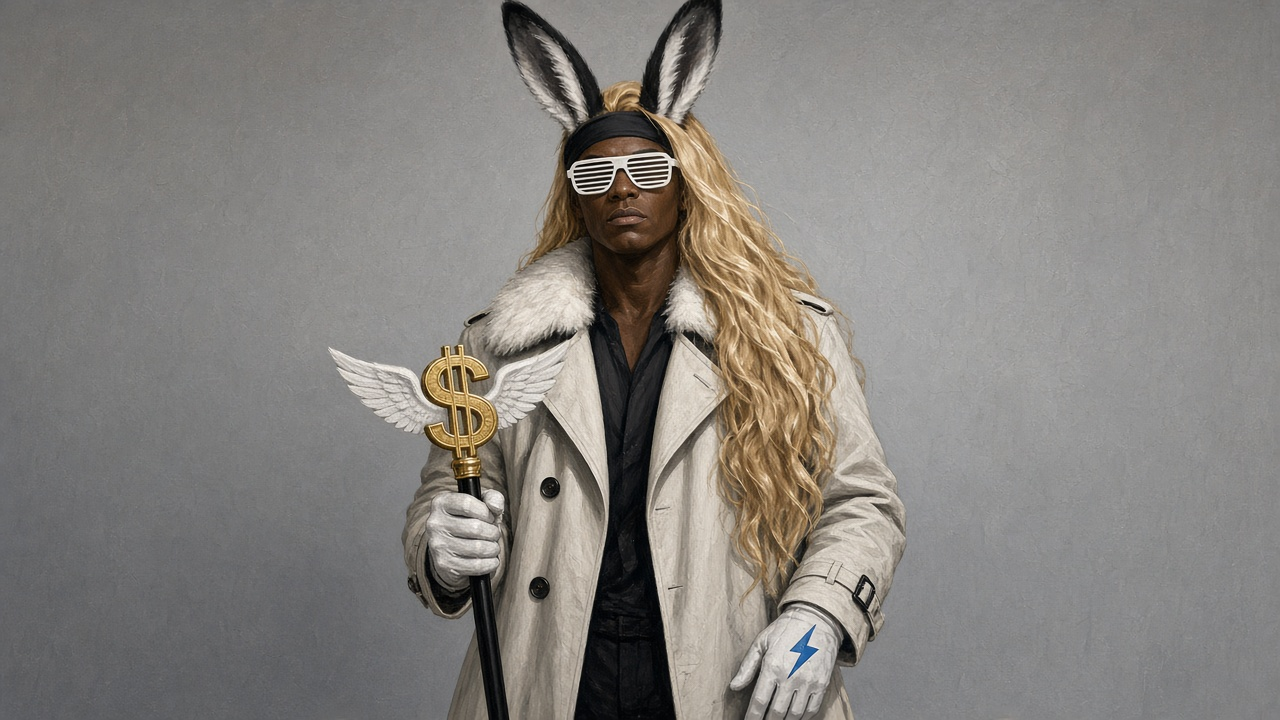
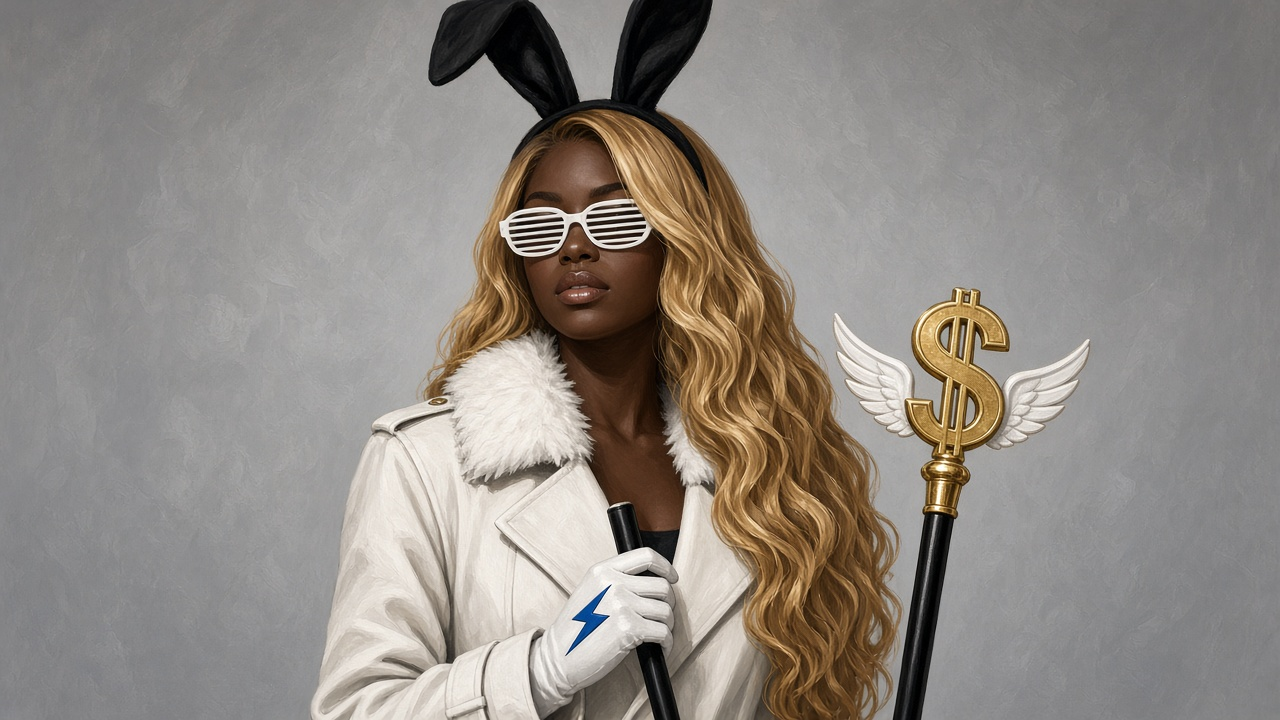
temp preview: NumbahWan LP v5 RE-LOOP (woman + frames + Kerning) WIP

diff --git a/index.html b/index.html
@@ -3,142 +3,73 @@
 <head>
 <meta charset="utf-8" />
 <meta name="viewport" content="width=device-width, initial-scale=1, viewport-fit=cover" />
-<title>NumbahWan · 總書記廳</title>
+<title>NumbahWan · 總書記廳 → Kerning</title>
 <meta name="theme-color" content="#1a120c" />
 <style>
-:root{
-  --ink:#1a120c; --cream:#f4e8d4; --red:#c41e1e; --gold:#c9a227;
-  --font:system-ui,"Noto Sans TC","PingFang TC","Microsoft JhengHei",sans-serif;
-}
+:root{--ink:#1a120c;--cream:#f4e8d4;--red:#c41e1e;--gold:#c9a227;--font:system-ui,"Noto Sans TC","PingFang TC",sans-serif}
 *{box-sizing:border-box}
-html{scroll-behavior:smooth}
 body{margin:0;font-family:var(--font);background:var(--ink);color:var(--cream);line-height:1.35}
-.stamp{
-  position:fixed;z-index:80;top:.4rem;right:.4rem;
-  background:var(--cream);color:var(--red);border:2px solid var(--red);
-  font-weight:900;font-size:.58rem;line-height:1.1;padding:.28rem .4rem;
-  transform:rotate(3deg);text-align:center;
-}
-/* ——— scrub track ——— */
-.scrub{
-  height:280vh;
-  position:relative;
-}
-.scrub-sticky{
-  position:sticky;top:0;height:100vh;height:100dvh;
-  overflow:hidden;
-  display:grid;grid-template-rows:auto 1fr auto;
-  padding:.55rem .55rem .7rem;
-  background:
-    linear-gradient(180deg, rgba(26,18,12,.55), rgba(26,18,12,.82)),
-    url("assets/v5/hall-base.png") center/cover no-repeat;
-}
-.banner{
-  justify-self:center;background:var(--red);color:var(--gold);
-  font-weight:900;font-size:clamp(.68rem,3.2vw,.95rem);
-  padding:.4rem .7rem;border:2px solid var(--gold);text-align:center;max-width:100%;
-}
-.stage{display:grid;align-content:center;gap:.45rem;min-height:0}
-.n-seal{
-  justify-self:center;width:clamp(3.2rem,18vw,5.5rem);aspect-ratio:1;
-  border-radius:50%;background:radial-gradient(circle at 40% 35%,#ff8a3d,#e85d04 55%,#9a3412);
-  border:3px solid var(--gold);box-shadow:0 0 0 2px #5a4208;
-  display:grid;place-items:center;font-weight:900;font-size:clamp(1.4rem,8vw,2.4rem);color:#fff8e7;
-}
-.triad{
-  display:grid;grid-template-columns:1fr 1fr;gap:.4rem;width:100%;max-width:42rem;margin:0 auto;
-}
-.triad figure{
-  margin:0;background:#0c0805;
-  border:3px solid var(--gold);box-shadow:0 0 0 2px #5a4208;
-  display:flex;flex-direction:column;min-width:0;
-}
-.triad img{
-  width:100%;height:auto;display:block; /* no letterbox voids */
-  vertical-align:middle;
-}
-.triad figcaption{
-  padding:.32rem .35rem;font-size:clamp(.58rem,2.6vw,.78rem);font-weight:900;
-  background:rgba(0,0,0,.78);color:var(--gold);text-align:center;
-}
-.footline{font-size:clamp(.72rem,3.2vw,.9rem);font-weight:800;text-align:center;opacity:.95}
-.cta{
-  display:inline-block;margin:.35rem auto 0;background:var(--red);color:var(--cream);
-  text-decoration:none;font-weight:900;padding:.55rem .85rem;border:2px solid var(--gold);
-}
-.progress{
-  position:absolute;left:0;bottom:0;height:3px;background:var(--gold);
-  width:0;animation:scrub-w linear;animation-timeline:scroll();animation-range:0% 100%;
-}
-@keyframes scrub-w{from{width:0}to{width:100%}}
-/* scrub phases via opacity on sticky children */
-.phase{opacity:.35;transform:translateY(8px);transition:opacity .2s linear}
-@supports (animation-timeline: scroll()){
-  .phase-1{animation:in1 linear both;animation-timeline:scroll();animation-range:0% 28%}
-  .phase-2{animation:in2 linear both;animation-timeline:scroll();animation-range:18% 62%}
-  .phase-3{animation:in3 linear both;animation-timeline:scroll();animation-range:52% 100%}
-  @keyframes in1{0%{opacity:.25}40%,100%{opacity:1}}
-  @keyframes in2{0%{opacity:.2}35%,100%{opacity:1}}
-  @keyframes in3{0%{opacity:.15}40%,100%{opacity:1}}
-}
-@supports not (animation-timeline: scroll()){
-  .phase{opacity:1;transform:none}
+.stamp{position:fixed;z-index:90;top:.4rem;right:.4rem;background:var(--cream);color:var(--red);border:2px solid var(--red);font-weight:900;font-size:.55rem;line-height:1.1;padding:.26rem .38rem;transform:rotate(3deg);text-align:center}
+.hero{min-height:100vh;min-height:100dvh;display:flex;flex-direction:column;justify-content:flex-end;position:relative;
+  background:#0c0805 url("assets/v5/hall-hero.png") center 28%/cover no-repeat}
+.hero::after{content:"";position:absolute;inset:0;background:linear-gradient(180deg,transparent 40%,rgba(26,18,12,.88));pointer-events:none}
+.hero-inner{position:relative;z-index:1;padding:.7rem .7rem 1.1rem;max-width:42rem;width:100%;margin:0 auto}
+.banner{display:inline-block;background:var(--red);color:var(--gold);font-weight:900;font-size:clamp(.65rem,3vw,.9rem);padding:.35rem .65rem;border:2px solid var(--gold);margin-bottom:.45rem}
+.hero h1{margin:0 0 .25rem;font-size:clamp(1.15rem,5vw,1.75rem);font-weight:900}
+.hero p{margin:0 0 .55rem;font-size:clamp(.78rem,3.2vw,.92rem);opacity:.95}
+.cta{display:inline-block;background:var(--red);color:var(--cream);text-decoration:none;font-weight:900;padding:.5rem .8rem;border:2px solid var(--gold)}
+/* Kerning scrub */
+.scrub-label{padding:.85rem .7rem .35rem;font-weight:900;color:var(--gold);font-size:.85rem;text-align:center}
+.scrub{height:220vh;position:relative}
+.scrub-sticky{position:sticky;top:0;height:100vh;height:100dvh;overflow:hidden}
+.scrub-sticky img{position:absolute;inset:0;width:100%;height:100%;object-fit:cover;opacity:0}
+.scrub-sticky img.k1{opacity:1;animation:k1 linear both;animation-timeline:scroll();animation-range:0% 55%}
+.scrub-sticky img.k2{animation:k2 linear both;animation-timeline:scroll();animation-range:35% 100%}
+@keyframes k1{0%,55%{opacity:1}80%,100%{opacity:0}}
+@keyframes k2{0%{opacity:0}40%,100%{opacity:1}}
+@supports not (animation-timeline:scroll()){
+  .scrub{height:auto}
+  .scrub-sticky{position:relative;height:auto;display:grid;gap:.4rem;padding:.5rem}
+  .scrub-sticky img{position:relative;inset:auto;height:auto;opacity:1;max-height:70vh}
 }
 @media (prefers-reduced-motion:reduce){
   .scrub{height:auto}
-  .scrub-sticky{position:relative;height:auto;min-height:100vh}
-  .phase{opacity:1;transform:none;animation:none}
-  .progress{display:none}
+  .scrub-sticky{position:relative;height:auto;display:grid;gap:.4rem;padding:.5rem}
+  .scrub-sticky img{position:relative;height:auto;opacity:1;animation:none;max-height:70vh}
 }
-.panel{max-width:42rem;margin:0 auto;padding:1.1rem .7rem 2rem}
-.panel h2{margin:0 0 .45rem;font-size:1rem;color:var(--gold)}
-.panel p{margin:0 0 .7rem;font-size:.88rem;opacity:.92}
-.ev{display:grid;grid-template-columns:1fr;gap:.55rem}
-.ev img{width:100%;height:auto;border:1px solid #5a4208;display:block}
-footer{max-width:42rem;margin:0 auto;padding:0 .7rem 2rem;font-size:.65rem;opacity:.6}
-@media (min-width:720px){
-  .triad{gap:.65rem}
-  .scrub-sticky{padding:1rem 1.25rem}
-}
+.cap{padding:.6rem .7rem 1.2rem;text-align:center;font-size:.82rem}
+.cap strong{color:var(--gold)}
+.panel{max-width:42rem;margin:0 auto;padding:1rem .7rem 2rem}
+.panel h2{margin:0 0 .4rem;font-size:1rem;color:var(--gold)}
+.ev img{width:100%;height:auto;display:block;border:1px solid #5a4208;margin-bottom:.5rem}
+footer{padding:0 .7rem 2rem;font-size:.62rem;opacity:.55;max-width:42rem;margin:0 auto}
 </style>
 </head>
 <body>
   <div class="stamp">搞笑中央<br/>非政治宣傳</div>
 
-  <section class="scrub" aria-label="總書記廳 scrub">
-    <div class="scrub-sticky">
-      <div class="banner phase phase-1">團結緊張嚴肅活潑 · 第一屆中央大會 12月24日</div>
-      <div class="stage">
-        <div class="n-seal phase phase-1" aria-label="NumbahWan N emblem">N</div>
-        <div class="triad phase phase-2">
-          <figure>
-            <img src="assets/v5/reggina-zhuxi.png" width="768" height="1024"
-              alt="總書記 RegginA 标准像：左肩及腰金髮、帶翼美元杖、百葉窗墨鏡、白毛領" />
-            <figcaption>總書記 · RegginA</figcaption>
-          </figure>
-          <figure>
-            <img src="assets/v5/reggino-fuzhuxi.png" width="768" height="1024"
-              alt="副書記 RegginO 标准像：粉髮花冠、藍拳套、泰迪" />
-            <figcaption>副書記 · RegginO</figcaption>
-          </figure>
-        </div>
-        <div class="footline phase phase-3">
-          NumbahWan · 總書記廳<br/>
-          <a class="cta" href="https://numbahwanguild.grok.me/" rel="noopener">想来就来 · Join Freely</a>
-        </div>
-      </div>
-      <div class="progress" aria-hidden="true"></div>
+  <section class="hero" aria-label="總書記廳 — 牆框內主席/副主席像">
+    <div class="hero-inner">
+      <div class="banner">團結緊張嚴肅活潑 · 中央大會 12月24日</div>
+      <h1>NumbahWan · 總書記廳</h1>
+      <p>N 徽 + 牆上金框內掛像（總書記 / 副書記）— 不是浮卡。</p>
+      <a class="cta" href="#kerning">下滾進入 Kerning City →</a>
     </div>
   </section>
 
-  <section class="panel">
-    <h2>Evidence · hair + Baller's cane</h2>
-    <p>左肩垂至近腰金髮（紅箭頭）+ 帶翼 <strong>$</strong> 杖 — 對照 L1。本地預覽；未推 GitHub。</p>
-    <div class="ev">
-      <img src="shots/likeness-hair-cane-reggina.png" alt="RegginA stilt vs L1 with left-shoulder waist hair arrow" />
-      <img src="shots/likeness-side-reggino-v5.png" alt="RegginO stilt vs L2" />
+  <p class="scrub-label" id="kerning">Kerning City · 毛/金風格戲仿（neon · alley · subway · construction）</p>
+  <section class="scrub" aria-label="Kerning City scrub">
+    <div class="scrub-sticky">
+      <img class="k1" src="assets/v5/kerning-1.png" width="1280" height="720" alt="Kerning City parody: neon alley, subway under construction, thief graffiti" />
+      <img class="k2" src="assets/v5/kerning-2.png" width="1280" height="720" alt="Kerning City parody: thieves hideout, station closed, night market neon" />
     </div>
   </section>
-  <footer>v5 local-only · Foundation a2890f73… · HARD BAN gh until user OK</footer>
+  <p class="cap"><strong>第一屆中央大會 12月24日</strong> · Join Freely · <a class="cta" href="https://numbahwanguild.grok.me/" rel="noopener">想来就来</a></p>
+
+  <section class="panel">
+    <h2>Evidence · likeness (woman + hair + cane)</h2>
+    <img src="shots/likeness-hair-cane-reggina.png" alt="RegginA woman stilt vs L1 with hair/cane callouts" />
+  </section>
+  <footer>v5 RE-LOOP · Foundation 20a98f07… · temp Pages by Leader only · no ship claim</footer>
 </body>
 </html>

diff --git a/DESIGN.md b/DESIGN.md
@@ -1,30 +1,15 @@
-# DESIGN.md — NumbahWan LP v5 (local-only)
+# DESIGN.md — NumbahWan LP v5 RE-LOOP (woman + in-frame + Kerning)
 
[1 lines of base64/hex data omitted]
-**KEEP:** AntiSlop `4aa03b3f…` · Box-Computer-Edge `0c8efe05…`  
-**Deploy:** local preview only — **HARD BAN** GitHub / gh-pages until user OK.
[1 lines of base64/hex data omitted]
+**KEEP:** AntiSlop · Box-Computer-Edge · stamp 搞笑中央/非政治宣傳  
+**Deploy:** local Artifact; Leader may **temp**-push Pages (not permanent ship).
 
-## Reader job
-Guildmates/recruits open a shareable hall page, laugh (搞笑中央), feel belonging, scrub into 12/24 大會 + Join.
+## HARD GATES
+1. RegginA = **beautiful Black woman** (#14) + hair left-shoulder→waist + winged $ Baller's cane + shades + white fur trench  
+2. MAIN portraits **IN wall gold frames** (composited hall-hero) — not floating CSS cards  
+3. Scrub = **Kerning City** Mao+Kim parody (neon/alley/subway/construction)  
+4. Mobile-first — no giant letterbox  
+5. Wall triad: N + GS + VGS  
 
-## Tokens
-- Ink `#1a120c` · Cream `#f4e8d4` · Vermillion `#c41e1e` · Gold `#c9a227` · Panel wood `#3a2a1c`
-- Type: system / Noto Sans TC stack
-- Mobile-first: ~375 first; no giant gray letterbox as primary mass
-
-## Wall triad (MAIN)
-1. **N** orange guild emblem (center)  
-2. **RegginA 總書記** 主席像 (left) — hair HARD + Baller's cane HARD  
-3. **RegginO 副書記** 副主席像 (right)
-
-## Hair HARD GATE (RegginA)
-Long blonde down **anatomical left shoulder** to **almost waist**. Short bob / spiky crop = FAIL.
-
-## Baller's cane HARD GATE
-Black shaft + **large winged $** (wings on $) from L1 `refs/gs-costume.jpeg`. Medallion disc = FAIL.
-
-## Motion
-CSS scroll-driven scrub (≥3 beats): approach hall → wall triad → 大會 CTA. `prefers-reduced-motion`: static stack.
-
-## HARD REJECTS 1–12
-Per Foundation (hair, cane, letterbox, soft B1, missing triad, no scrub, premature gh, …).
+## Assets
+- `assets/v5/reggina-zhuxi.png` · `reggino-fuzhuxi.png` · `hall-hero.png` · `kerning-1.png` · `kerning-2.png`
